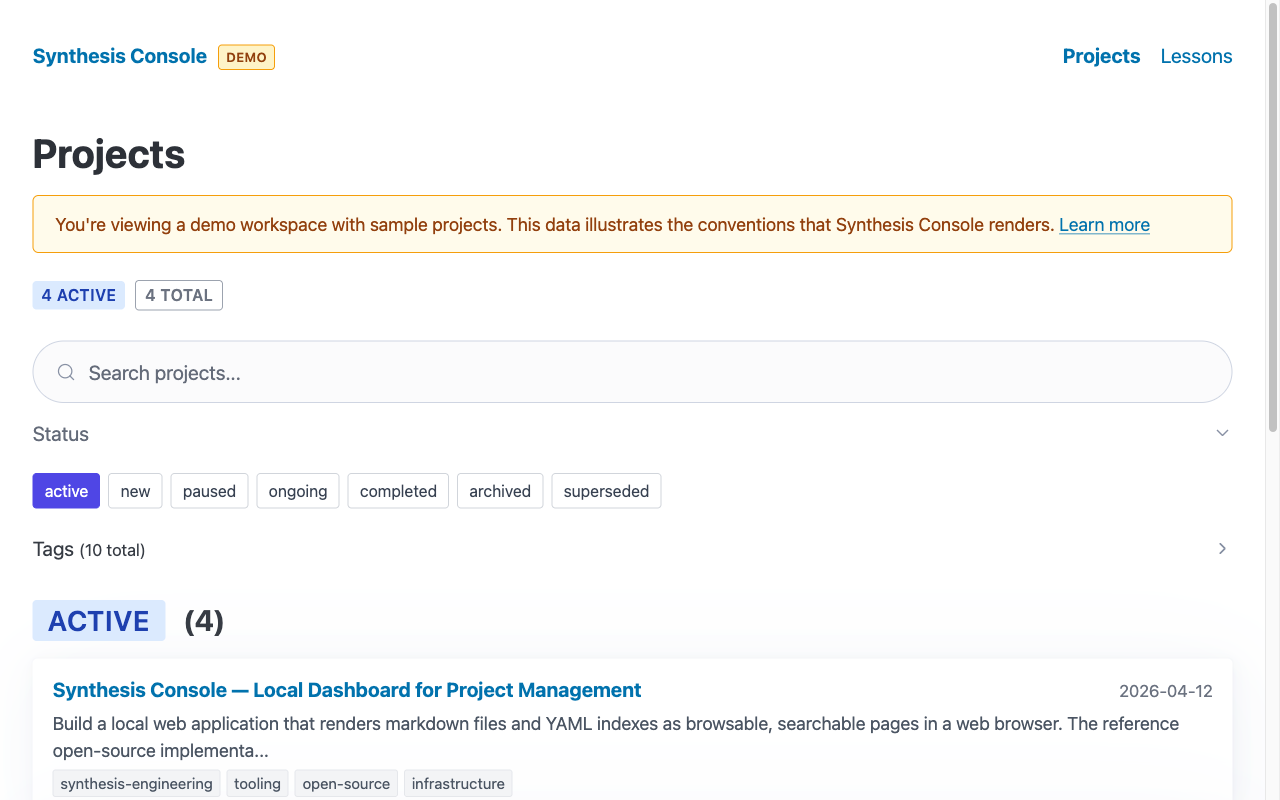
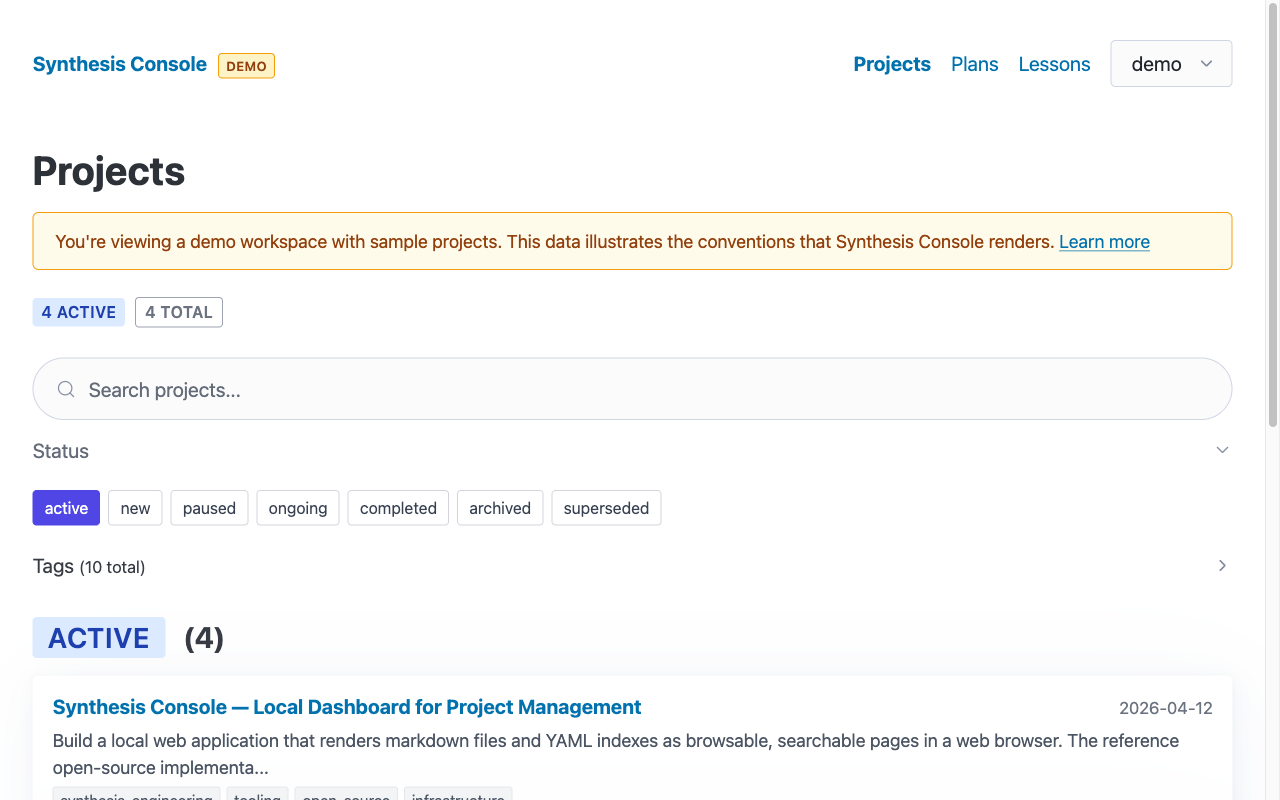
Add daily plans to README with screenshots and person-scoped philosophy
New screenshots: plans calendar and plan detail with draft notice.
New sections: Daily Plans (person-scoped design), The Full System
(ecosystem links to synthesis-skills and related articles).

diff --git a/README.md b/README.md
@@ -32,6 +32,14 @@ Synthesis engineering is a discipline for structured human-AI collaboration — 
 
 ![Lessons list](screenshots/lessons.png)
 
+**Daily plans** — calendar navigation with today highlighted, click any date to view:
+
+![Daily plans calendar](screenshots/plans-calendar.png)
+
+**Plan detail** — rendered daily plan with draft message notice and grounding:
+
+![Plan detail with draft notice](screenshots/plan-detail.png)
+
 ## Quick Start
 
 ```bash
@@ -140,6 +148,32 @@ projects:
 **`projects/{id}/sessions/YYYY-MM.md`** — session archives, append-only monthly files.
 
 **`projects/_lessons/YYYY-MM-DD-slug.md`** — cross-project lessons learned.
+
+**`projects/_daily-plans/YYYY-MM-DD.md`** — daily action plans with prioritized tasks, draft messages, and delegation tracking.
+
+## Daily Plans
+
+The daily plan viewer treats you as one person with one plan per day — regardless of how many workspaces, organizations, or roles you have. Your personal workspace holds your daily plans; the other workspaces hold their projects. The same way a GitHub account is one identity across multiple organizations, your daily plan is one view across all your work.
+
+Plans include draft messages with grounding — each draft shows the research behind it (code commits, test results, Slack threads, deployment status). A visible notice reminds you to review and personalize each draft before sending. The tool does the research; the human adds judgment, timing, and voice.
+
+## The Full System
+
+Synthesis Console is the viewing layer. The methodology that produces the files it renders comes from [synthesis skills](https://github.com/rajivpant/synthesis-skills) — a library of open-source agent skills for project management, context lifecycle, daily planning, code review, and more.
+
+To use the complete system:
+
+```bash
+# Install the skills (works with Claude Code, Cursor, Codex CLI, and 40+ other agents)
+npx skills add rajivpant/synthesis-skills --global --all --copy
+```
+
+The skills create and maintain the files. The console renders them. Together they form a complete synthesis engineering workflow.
+
+**Learn more:**
+- [Synthesis Skills: Install Methodology Into Your AI Workflow](https://rajiv.com/blog/2026/03/18/synthesis-skills-install-methodology-into-your-ai-workflow/)
+- [AI-Native Project Management](https://rajiv.com/blog/2025/12/14/ai-native-project-management/)
+- [The Tiered Context Architecture](https://rajiv.com/blog/2026/03/01/tiered-context-architecture/)
 
 ## Security
 
